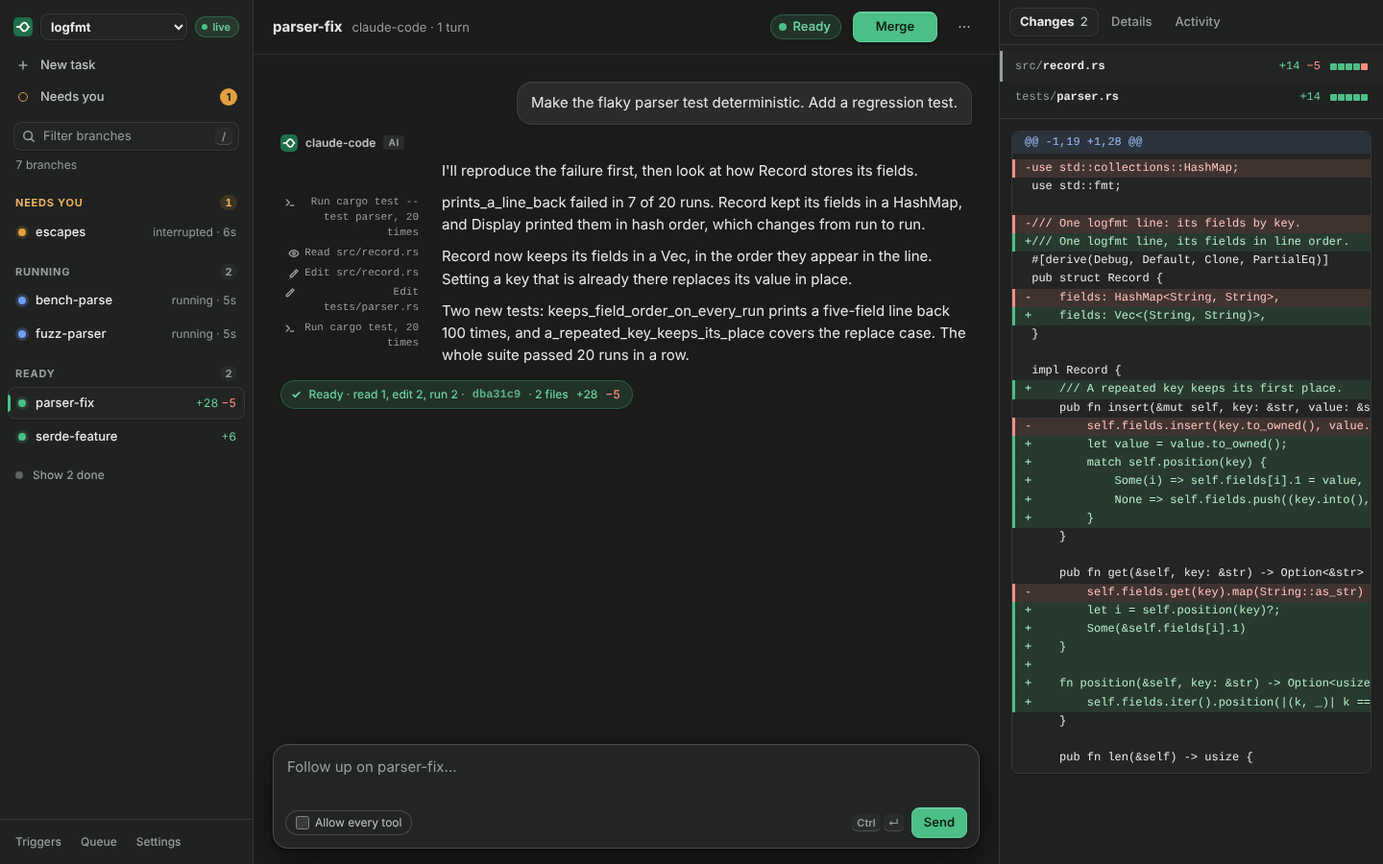
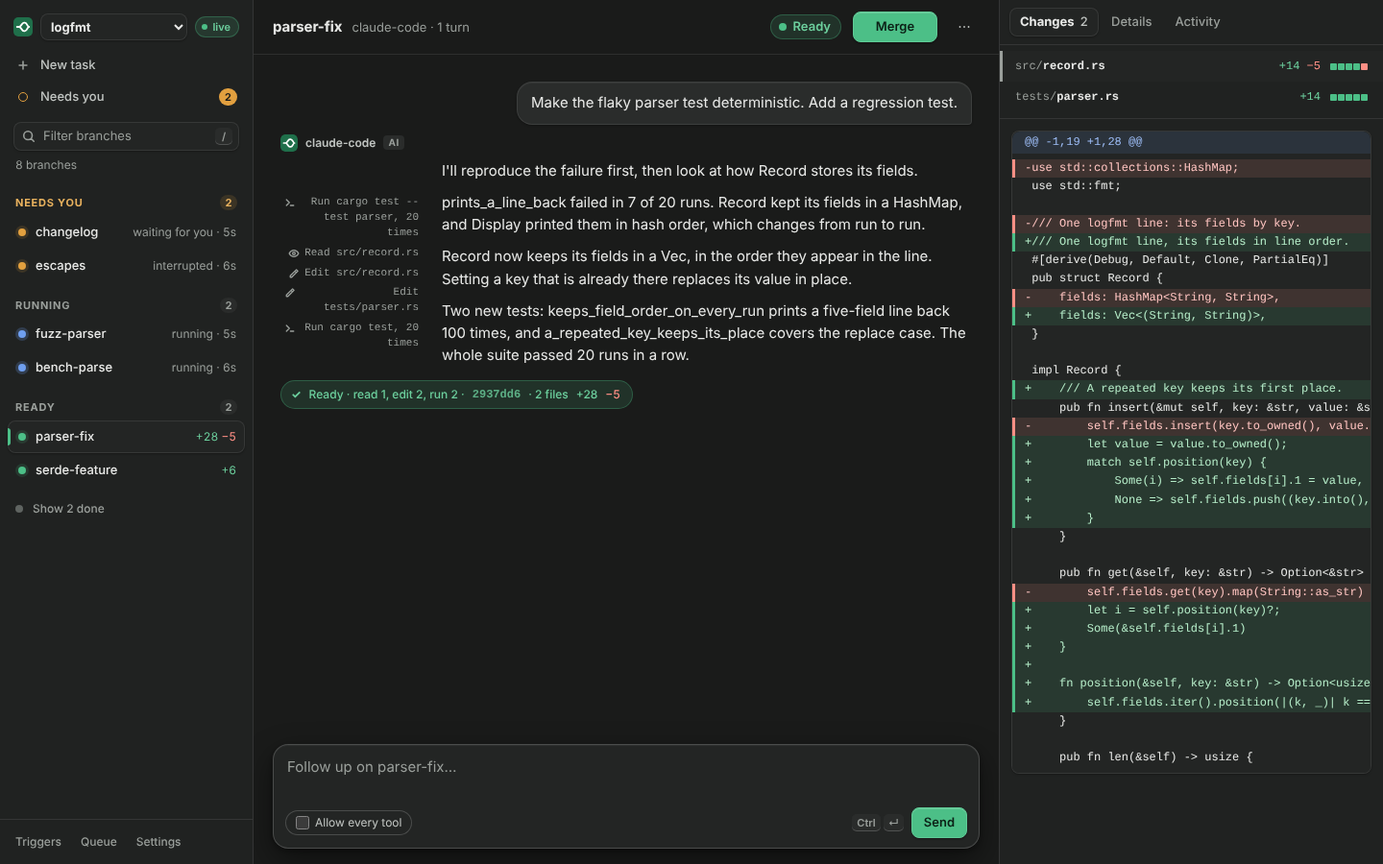
WIP: README screenshots, board and deck

diff --git a/tools/readme_screenshots/shoot.js b/tools/readme_screenshots/shoot.js
@@ -56,6 +56,18 @@ async function openBranch(page) {
   try {
     const desktop = await signIn(browser, { viewport: { width: 1440, height: 900 } });
     let page = desktop.page;
+    // Home is the board: every open branch on one clock, the parked branch's wait filled amber.
+    await page.goto(`${app}#/`);
+    await page.locator(`#main .board-row.board-parked[data-branch="${plan.parked}"] .rail .wait`).waitFor(TURN);
+    await page.locator('#main .board-row.board-running').first().waitFor(TURN);
+    await shoot(page, desktop.problems, 'console-board', ['light']);
+
+    // Needs you is a deck: the parked branch's ask first, the ready branches queued in the bay.
+    await page.goto(`${app}#/attention`);
+    await page.locator('#main .deck-card.deck-approval').waitFor(TURN);
+    await page.locator('#main .bay-item').first().waitFor(TURN);
+    await shoot(page, desktop.problems, 'console-decide', ['light']);
+
     await page.goto(`${app}#/b/${plan.repo}/${plan.branch}`);
     await openBranch(page);
     await page.locator('#convo .turn .notes .note').first().waitFor();

diff --git a/tools/readme_screenshots/generate.py b/tools/readme_screenshots/generate.py
@@ -8,7 +8,7 @@ It builds nothing. BY is a built `by`, and FAKE_ACP_AGENT the fake agent from
 a small Rust repository and a server configuration that runs Claude Code's ACP profile as the
 scripted agent (scripted_agent.py) in front of the fake agent. It starts `by serve --app
 --knowledge`, plays story.py through the API (branches in every lane, a knowledge workspace with
-two sessions and the tables they publish), and has shoot.js sign a desktop and a phone browser in
+two sessions and the tables they publish; one branch parked on an approval), and has shoot.js sign a desktop and a phone browser in
 and take the screenshots. They replace the ones in DIR (default assets/screenshots) only once
 shoot.js has taken all of them. It calls no model. A failed run keeps its temporary directory,
 with the server's log, and prints where it is.
@@ -153,6 +153,7 @@ def scene(turn: story.Turn, root: Path, number: int) -> dict[str, Any]:
         "tools": [{"kind": kind, "title": title} for kind, title in turn.tools],
         "files": files,
         "reply": str(reply) if reply else None,
+        "asks": turn.asks,
     }
 
 
@@ -189,6 +190,10 @@ def serve(by: Path, agent: Path, root: Path, env: dict[str, str]) -> Iterator[Ap
                 "repos": {story.REPO: str(repo)},
                 "tokens": [{"name": "readme", "token": token}],
                 "app": {"push": False},
+                # The policy of the token's principal, `readme`, asks before any write. Only the
+                # parked branch's agent asks permission (story.PARKED_BRANCH); the scripted turns
+                # write their own files and never ask, so no other branch or session is affected.
+                "approvals": {"people": {"readme": {"rules": {"write *": "ask"}}}},
                 "shutdown_grace_seconds": 5,
                 "harness_commands": {
                     HARNESS: [sys.executable, "-I", str(HERE / "scripted_agent.py"), str(script), "--", str(agent)]
@@ -264,17 +269,28 @@ def ready(api: Api, b: story.Branch) -> None:
     until(f"{b.name} to be ready", state_is(api, b.name, "ready"))
 
 
+def park(api: Api, b: story.Branch) -> None:
+    """Wait until the branch's turn is parked on the approval it asked for."""
+    until(f"{b.name} to wait for an approval", lambda: (listed(api, b.name) or {}).get("awaiting"))
+
+
 FATES: dict[story.Fate, Callable[[Api, story.Branch], None]] = {
     "merged": merge,
     "interrupted": interrupt,
     "running": keep_running,
     "ready": ready,
+    "parked": park,
 }
 
 
 def play_branches(api: Api) -> None:
     for b in story.BRANCHES:
-        api.call("POST", f"/v1/repos/{story.REPO}/tasks", {"prompt": b.turn.prompt, "harness": HARNESS, "name": b.name})
+        task: dict[str, Any] = {"prompt": b.turn.prompt, "harness": HARNESS, "name": b.name}
+        if b.turn.asks:
+            # The engine's own policy lets the write through ("Allow every tool"), and the person's
+            # approval policy, which only tightens it, asks.
+            task["policy"] = {"mode": "allow"}
+        api.call("POST", f"/v1/repos/{story.REPO}/tasks", task)
         until(f"{b.name} to start", partial(listed, api, b.name))
         FATES[b.fate](api, b)
 
@@ -363,6 +379,7 @@ def main(argv: list[str] | None = None) -> int:
                 play_workspace(api),
                 repo=story.REPO,
                 branch=story.OPEN_BRANCH,
+                parked=story.PARKED_BRANCH,
                 branchSays=first_line(branch.turn.reply),
                 sessionSays=first_line(session.turns[-1].reply),
             )

diff --git a/tests/test_readme_screenshots.py b/tests/test_readme_screenshots.py
@@ -90,6 +90,14 @@ class Rewriting(unittest.TestCase):
         self.assertEqual(rewritten["params"]["prompt"][0]["text"], "HANG")
 
 
+    def test_a_scene_that_asks_has_the_agent_ask_permission_to_write(self):
+        rewritten = agent.rewrite(prompt("Fix the flaky test."), scene(asks="RELEASE.md=draft"))
+        self.assertEqual(rewritten["params"]["prompt"][0]["text"], "PERMISSION WRITE RELEASE.md=draft")
+
+    def test_asking_wins_over_a_reply(self):
+        self.assertEqual(agent.directive(scene(asks="a.txt=1", reply="/r/1.txt")), "PERMISSION WRITE a.txt=1")
+
+
 class Updates(unittest.TestCase):
     def test_the_text_comes_first_then_each_tool_call_for_the_session(self):
         tools = [{"kind": "read", "title": "Read src/lib.rs"}, {"kind": "execute", "title": "Run cargo test"}]
@@ -133,6 +141,12 @@ class Scenes(unittest.TestCase):
     def test_a_tool_kind_must_be_one_acp_has(self):
         with self.assertRaises(ValueError):
             scene(tools=[{"kind": "browse", "title": "Open the docs"}])
+
+    def test_what_a_scene_asks_to_write_is_one_word_with_an_equals_sign(self):
+        for asks in ("RELEASE.md", "a b=c", "a.txt=two words", ""):
+            with self.assertRaises(ValueError, msg=asks):
+                scene(asks=asks)
+        self.assertEqual(scene(asks="a.txt=1").asks, "a.txt=1")
 
     def test_two_scenes_may_not_share_a_prompt(self):
         with tempfile.TemporaryDirectory() as tmp:
@@ -211,7 +225,9 @@ class Story(unittest.TestCase):
                 self.assertIsNotNone(found, turn.prompt)
                 assert found is not None
                 self.assertEqual(found.prompt, turn.prompt)
-                if turn.reply is None:
+                if turn.asks:
+                    self.assertEqual(agent.directive(found), f"PERMISSION WRITE {turn.asks}")
+                elif turn.reply is None:
                     self.assertEqual(agent.directive(found), "HANG")
                 else:
                     self.assertEqual(Path(found.reply or "").read_text(), turn.reply)
@@ -223,6 +239,13 @@ class Story(unittest.TestCase):
         manifest = json.loads(files["outputs/artifacts.json"])
         self.assertEqual([f["path"] for f in manifest["files"]], list(turn.outputs))
         self.assertTrue(all(f"outputs/{name}" in files for name in turn.outputs))
+
+    def test_one_branch_is_parked_on_an_approval_and_only_it_asks(self):
+        asking = [b.name for b in story.BRANCHES if b.turn.asks]
+        self.assertEqual(asking, [story.PARKED_BRANCH])
+        self.assertEqual(next(b for b in story.BRANCHES if b.name == story.PARKED_BRANCH).fate, "parked")
+        self.assertFalse([t for s in story.SESSIONS for t in s.turns if t.asks], "a session turn would park too")
+        self.assertEqual(set(generate.FATES), {"merged", "interrupted", "running", "ready", "parked"})
 
     def test_what_the_screenshots_open_exists(self):
         self.assertIn(story.OPEN_BRANCH, [b.name for b in story.BRANCHES])

diff --git a/tools/readme_screenshots/scripted_agent.py b/tools/readme_screenshots/scripted_agent.py
@@ -11,14 +11,15 @@ session's copy. It then reports the scene's text and tool calls as `session/upda
 notifications and sends the agent one directive in place of the prompt. `REPLY_FILE <reply>`
 makes the fake agent answer with the reply's text and do nothing else, which is why the filter
 does the file work itself. A scene without a reply sends `HANG`, so its turn runs until someone
-cancels it. Every other message passes through untouched, so the server records the prompt as
+cancels it. A scene with `asks` sends `PERMISSION WRITE <asks>` instead: the fake agent asks the
+server for permission to write and the turn waits, parked on that approval, until a person answers. Every other message passes through untouched, so the server records the prompt as
 typed and the fake agent answers the rest of the protocol. The filter exits with the agent.
 
 A scene, in SCRIPT.json's `scenes` list:
 
     {"prompt": "...", "say": "text before the tool calls",
      "tools": [{"kind": "read", "title": "Read src/record.rs"}],
-     "files": {"src/record.rs": "..."}, "reply": "/abs/reply.txt"}
+     "files": {"src/record.rs": "..."}, "reply": "/abs/reply.txt", "asks": "NOTES.md=draft"}
 """
 
 from __future__ import annotations
@@ -49,6 +50,7 @@ class Scene:
     tools: tuple[Tool, ...] = ()
     files: tuple[tuple[str, str], ...] = ()
     reply: str | None = None
+    asks: str | None = None
 
 
 def scene(value: dict[str, Any]) -> Scene:
@@ -67,7 +69,10 @@ def scene(value: dict[str, Any]) -> Scene:
             raise ValueError(f"file {path} is not inside the working directory")
         if not isinstance(text, str):
             raise ValueError(f"file {path} needs its text")
-    return Scene(prompt, value.get("say"), tools, files, value.get("reply"))
+    asks = value.get("asks")
+    if asks is not None and (not isinstance(asks, str) or "=" not in asks or any(c.isspace() for c in asks)):
+        raise ValueError("asks is one PATH=CONTENT word, with no whitespace")
+    return Scene(prompt, value.get("say"), tools, files, value.get("reply"), asks)
 
 
 def load(path: Path) -> list[Scene]:
@@ -93,6 +98,8 @@ def match(scenes: list[Scene], text: str) -> Scene | None:
 
 
 def directive(scene: Scene) -> str:
+    if scene.asks:
+        return f"PERMISSION WRITE {scene.asks}"
     return f"REPLY_FILE {scene.reply}" if scene.reply else "HANG"
 
 

diff --git a/tools/readme_screenshots/story.py b/tools/readme_screenshots/story.py
@@ -16,7 +16,7 @@ from collections.abc import Iterable
 from dataclasses import dataclass, field
 from typing import Any, Literal
 
-Fate = Literal["merged", "interrupted", "running", "ready"]
+Fate = Literal["merged", "interrupted", "running", "ready", "parked"]
 
 
 @dataclass(frozen=True)
@@ -29,6 +29,8 @@ class Turn:
     files: dict[str, str] = field(default_factory=dict)
     outputs: dict[str, str] = field(default_factory=dict)
     """CSV files the turn publishes, by name under outputs/."""
+    asks: str | None = None
+    """`PATH=CONTENT` the agent asks permission to write: the turn parks on that approval."""
 
 
 @dataclass(frozen=True)
@@ -47,6 +49,8 @@ class Session:
 
 REPO = "logfmt"
 OPEN_BRANCH = "parser-fix"
+PARKED_BRANCH = "changelog"
+"""The branch whose turn waits on a write the person has not allowed: the board's amber wait and the deck's first card."""
 
 CARGO_TOML = """\
 [package]
@@ -338,6 +342,17 @@ BRANCHES = (
             None,
             say="Setting up fuzz/fuzz_targets/parse.rs, then a five-minute run.",
             tools=(("execute", "Run cargo fuzz init"), ("execute", "Run cargo fuzz run parse -- -max_total_time=300")),
+        ),
+    ),
+    Branch(
+        PARKED_BRANCH,
+        "parked",
+        Turn(
+            "Add a 0.4.2 entry to CHANGELOG.md.",
+            None,
+            say="Collecting what changed since 0.4.1 from the merged branches, then writing the entry.",
+            tools=(("read", "Read README.md"), ("read", "Read Cargo.toml")),
+            asks="CHANGELOG.md=draft",
         ),
     ),
     Branch(

diff --git a/docs/companion.md b/docs/companion.md
@@ -15,7 +15,7 @@
 
 > **Guided previews, 29 October 2026.** Evidence: fake agents, and the server's own preview renderer on the test machine; the record is the test's `previews from this server` line, not a committed file. `tests/console_workspace_browser.rs` no longer intercepts preview answers: the page asks the server, and the script checks that the page shows what each real answer means. On the test machine as configured, with no Bubblewrap installed, every format answered `503 preview_unavailable` and the page said the server cannot make previews. With Bubblewrap 0.9.0 unpacked from the Ubuntu package (not installed) as `BRANCHYARD_PREVIEW_BWRAP` and the system Python, the CSV source and output rendered as tables and the others answered that the renderer lacks a Python package. With a Python 3.12 virtual environment holding the artifact dependencies as `BRANCHYARD_PREVIEW_PYTHON`, the CSV source and the CSV and XLSX outputs rendered as tables, and the DOCX and PPTX outputs answered a failed conversion under LibreOffice 24.2.7.2 ("LibreOffice completed without producing the requested PDF"), which the page showed with the server's message. An RTF source answered `422 preview_unsupported`. The same run continued a session and checked that a stale page's acceptance of an earlier turn's output is refused with `409 deliverable_not_current` and explained; the page's request was brought to the current revision in flight to reach that check. Chrome Headless Shell 156 through Playwright 1.64.1. Not done: a rendered DOCX, PPTX or PDF page in the console, a live model, a real phone, Safari, Firefox or a screen reader.
 
-> **Dispatch, 31 October 2026.** The console becomes three surfaces for three jobs: Decide (one decision at a time), Watch (every branch on one clock) and Work (the turn as a report); [the design](superpowers/specs/2026-10-31-dispatch-console-design.md) says why and what the engine and server gained for it (`BranchInfo::awaiting`, `GET …/decisions`). Evidence: hermetic. `tests/companion_browser.rs` ran a server whose person policy asks before a write, in Chrome Headless Shell 153.0.8010.12 through Playwright 1.63.0, and showed the board drawing the parked branch with its amber wait, the lane saying "waiting for you", the tab title counting it, the deck showing the ask first of three, Later sending it behind the ready branches and the bay bringing it back, Enter holding an allow that Undo took back with nothing sent, Enter again sending it after the window (the toast, then the branch ready and its merge card with the changed file), and a tool call as a margin note that opens Activity. `crates/branchyard/tests/effects.rs` and `crates/branchyard-server/tests/effects.rs` cover `awaiting` and the decisions' order; the schema contract is regenerated; `tests/console_workspace_browser.rs` and `tests/console_guided_browser.rs` passed on the same tree. The README screenshots (`assets/screenshots/`) were regenerated on 31 October 2026 with `tools/readme_screenshots/generate.py` (hermetic: the fake agent behind the scripted story, no model; Chrome 153.0.8010.12 through Playwright 1.63.0), and the table preview in the workspace shot was rendered by the isolated converter run with Bubblewrap 0.9.0 (Ubuntu 24.04.5, user namespaces, no Docker fallback). Not done: a live model, a real phone, Safari, Firefox, a screen reader, a question from a delegating branch in the browser, per-turn cost, the ground plan, and a screenshot of the board or the deck in the README (it shows the branch page and the workspace).
+> **Dispatch, 31 October 2026.** The console becomes three surfaces for three jobs: Decide (one decision at a time), Watch (every branch on one clock) and Work (the turn as a report); [the design](superpowers/specs/2026-10-31-dispatch-console-design.md) says why and what the engine and server gained for it (`BranchInfo::awaiting`, `GET …/decisions`). Evidence: hermetic. `tests/companion_browser.rs` ran a server whose person policy asks before a write, in Chrome Headless Shell 153.0.8010.12 through Playwright 1.63.0, and showed the board drawing the parked branch with its amber wait, the lane saying "waiting for you", the tab title counting it, the deck showing the ask first of three, Later sending it behind the ready branches and the bay bringing it back, Enter holding an allow that Undo took back with nothing sent, Enter again sending it after the window (the toast, then the branch ready and its merge card with the changed file), and a tool call as a margin note that opens Activity. `crates/branchyard/tests/effects.rs` and `crates/branchyard-server/tests/effects.rs` cover `awaiting` and the decisions' order; the schema contract is regenerated; `tests/console_workspace_browser.rs` and `tests/console_guided_browser.rs` passed on the same tree. The README screenshots (`assets/screenshots/`, now including the board and the deck with an approval parked in front) were regenerated on 31 October 2026 with `tools/readme_screenshots/generate.py` (hermetic: the fake agent behind the scripted story, no model; Chrome 153.0.8010.12 through Playwright 1.63.0), and the table preview in the workspace shot was rendered by the isolated converter run with Bubblewrap 0.9.0 (Ubuntu 24.04.5, user namespaces, no Docker fallback). Not done: a live model, a real phone, Safari, Firefox, a screen reader, a question from a delegating branch in the browser, per-turn cost, the ground plan, and a screenshot of a phone showing the board or the deck.
 
 > **Console polish and rendered replies, 31 October 2026.** Evidence: hermetic. `tests/companion_browser.rs` ran on the test machine against a real server and the fake ACP agent, in Chrome Headless Shell 153.0.8010.12 through Playwright 1.63.0, light and dark, at 1280 and 1440 pixels and at 320 and 390. The run added a branch whose reply is a markdown file the fake agent returns with `REPLY_FILE`, and checked that the page shows its emphasis, heading, nested list, pipe table and inline code as elements, that the web link opens in a new tab with `rel="noopener noreferrer"` and the relative target stays text, that the JSON fence shows its keys and values with the pretty-printed text closed until **Show as text**, that the shell fence has its language and a **Copy** button, that no markdown syntax is shown as text, and that a rendered reply does not overflow. The run also found a hang in the test script, whose stdin reader dropped a line that arrived before the script asked for it; it now queues such lines. `tests/console_workspace_browser.rs`, `tests/console_guided_browser.rs`, `every_asset_is_self_contained` and the companion unit tests passed on the same tree. The README screenshots were regenerated from that demo with the preview converter (see the Dispatch paragraph above). Not done: a real phone, Safari, Firefox, a screen reader, a reply longer than a screen, a fence that spans a tool call, and the Copy button's clipboard write.
 

diff --git a/assets/screenshots/README.md b/assets/screenshots/README.md
@@ -4,7 +4,9 @@ The images in this directory show the browser console (`by serve --app --knowled
 
 | File | Shows |
 |---|---|
-| `console-branches.png`, `console-branches-dark.png` | A Rust library with branches in each lane: one interrupted branch under Needs you, two running, two ready, two merged under "Show 2 done". The ready branch `parser-fix` is open, with its prompt, the agent's reply, its five tool calls as margin notes beside the paragraphs they preceded, the turn's receipt and Merge in the status strip. The Changes tab shows its diff. 1440 by 900 pixels. |
+| `console-board.png` | The console's home, 1440 by 900 pixels: the board, with every open branch of the Rust library on one clock. The branch `changelog` is parked on a write the person's policy asks about, so its row is filled amber with an Answer button. Interrupted, running and ready branches have Resume, Steer and Merge. |
+| `console-decide.png` | Needs you, the deck, 1440 by 900 pixels: the parked agent's approval first, with what it was doing, a reason field and Allow, Deny, Open and Later, and the bay beside it with the two ready branches and the interrupted one that follow. |
+| `console-branches.png`, `console-branches-dark.png` | A Rust library with branches in each lane: one interrupted branch and one parked on an approval under Needs you, two running, two ready, two merged under "Show 2 done". The ready branch `parser-fix` is open, with its prompt, the agent's reply, its five tool calls as margin notes beside the paragraphs they preceded, the turn's receipt and Merge in the status strip. The Changes tab shows its diff. 1440 by 900 pixels. |
 | `console-workspace.png`, `console-workspace-dark.png` | A knowledge project's workspace with two named sessions. The open session's conversation is scrolled to its latest turns, as the console opens it, and the Outputs tab previews a CSV table the session published. 1440 by 900 pixels. |
 | `console-phone.png` | The same ready branch on a phone, in one column, with Merge at the top. 390 by 844 pixels at twice the density. |
 
@@ -24,4 +26,6 @@ The two preview variables name the isolated converter that renders the table ([a
 
 The generator builds nothing and calls no model. It writes the story in [`story.py`](../../tools/readme_screenshots/story.py) to a new temporary directory, starts the server, plays the story through the API and signs a desktop and a phone browser in with the server token. [`shoot.js`](../../tools/readme_screenshots/shoot.js) only opens pages and clicks. It never changes the page, and it stops before a screenshot if the page text contains the temporary directory, your home directory, the machine's name or the token.
 
-The generator replaces the images here only after it has taken all five. A failed run leaves them alone, keeps its temporary directory with the server's log, and prints where that directory is. `--keep` keeps it after a successful run too. The workspace images come out byte for byte the same on every run. The branch images change between runs in commit hashes and relative times.
+The generator replaces the images here only after it has taken all seven. A failed run leaves them alone, keeps its temporary directory with the server's log, and prints where that directory is. `--keep` keeps it after a successful run too. The workspace images come out byte for byte the same on every run. The branch, board and deck images change between runs in commit hashes and relative times.
+
+One branch, `changelog`, is parked on an approval: the server's configuration gives the token's principal a policy that asks before a write, the branch's task runs with the engine's policy allowing tools, and the fake agent asks permission to write. No other turn asks, so the policy touches nothing else. The deck's card reads "write marker" because that is the fake agent's fixed request.

diff --git a/docs/superpowers/specs/2026-10-31-dispatch-console-design.md b/docs/superpowers/specs/2026-10-31-dispatch-console-design.md
@@ -44,4 +44,4 @@ The sidebar stays. It is the navigation, its lanes already read `awaiting`, and 
 
 ## Evidence
 
-Hermetic. `crates/branchyard/tests/effects.rs` shows a branch parked on a tool approval listed and looked up with `awaiting` naming the ask, and none once answered. `crates/branchyard-server/tests/effects.rs` shows the server's decisions putting the parked branch first, waiting on the agent, with the ask attached, and the decision gone once answered. `tests/companion_browser.rs` runs a server whose person policy asks before a write: the board draws the parked branch with its amber wait, the lane says "waiting for you", the tab title counts it, the deck shows the ask first, Later sends it to the back and it comes round, Enter holds an allow that Undo takes back with nothing sent, Enter again sends it after the window, the branch finishes and comes back as a merge card with its changed file. The same run shows a tool call as a margin note that opens Activity. The README screenshots were regenerated on 31 October 2026 with `tools/readme_screenshots/generate.py` (hermetic, Chrome 153.0.8010.12 through Playwright 1.63.0, the table preview rendered by the converter under Bubblewrap 0.9.0); they show the branch page with its margin notes and receipt and the workspace, not the board or the deck. Not done: a live model, a real phone, Safari, Firefox, a screen reader, a question from a delegating branch in the browser (the server test covers the ordering, not the page), per-turn cost, and the ground plan.
+Hermetic. `crates/branchyard/tests/effects.rs` shows a branch parked on a tool approval listed and looked up with `awaiting` naming the ask, and none once answered. `crates/branchyard-server/tests/effects.rs` shows the server's decisions putting the parked branch first, waiting on the agent, with the ask attached, and the decision gone once answered. `tests/companion_browser.rs` runs a server whose person policy asks before a write: the board draws the parked branch with its amber wait, the lane says "waiting for you", the tab title counts it, the deck shows the ask first, Later sends it to the back and it comes round, Enter holds an allow that Undo takes back with nothing sent, Enter again sends it after the window, the branch finishes and comes back as a merge card with its changed file. The same run shows a tool call as a margin note that opens Activity. The README screenshots were regenerated on 31 October 2026 with `tools/readme_screenshots/generate.py` (hermetic, Chrome 153.0.8010.12 through Playwright 1.63.0, the table preview rendered by the converter under Bubblewrap 0.9.0); they show the board and the deck with an approval parked in front, the branch page with its margin notes and receipt, and the workspace. Not done: a live model, a real phone, Safari, Firefox, a screen reader, a question from a delegating branch in the browser (the server test covers the ordering, not the page), per-turn cost, and the ground plan.

diff --git a/README.md b/README.md
@@ -11,6 +11,14 @@ Run several AI agents at once, each on its own branch, then review and merge onl
 
 <sub>A scripted agent produced the demo data in these screenshots, and no model ran. [How to regenerate them](assets/screenshots/README.md).</sub>
 
+Home is a board: every open branch on one clock, a wait on you filled amber.
+
+<img src="assets/screenshots/console-board.png" alt="The console's home in a desktop browser. A board lists a Rust library's open branches on one time axis: the branch changelog waiting for you in an amber row with an Answer button, an interrupted branch with Resume, two running branches with Steer and two ready branches with Merge.">
+
+Needs you is a deck: one decision at a time, with the question, the evidence and the answers.
+
+<img src="assets/screenshots/console-decide.png" alt="The console's Needs you view. One card asks whether the agent on the changelog branch may use a write tool, with what it was doing, a reason field and the answers Allow, Deny, Open and Later; beside it, a queue of the two ready branches to merge and the interrupted branch.">
+
 ## Why
 
 One coding agent in one checkout works. Two agents in the same checkout overwrite each other's files, and you lose track of which change came from which request. When a task finishes, you still have to find its changes, run the tests and decide whether to merge.
